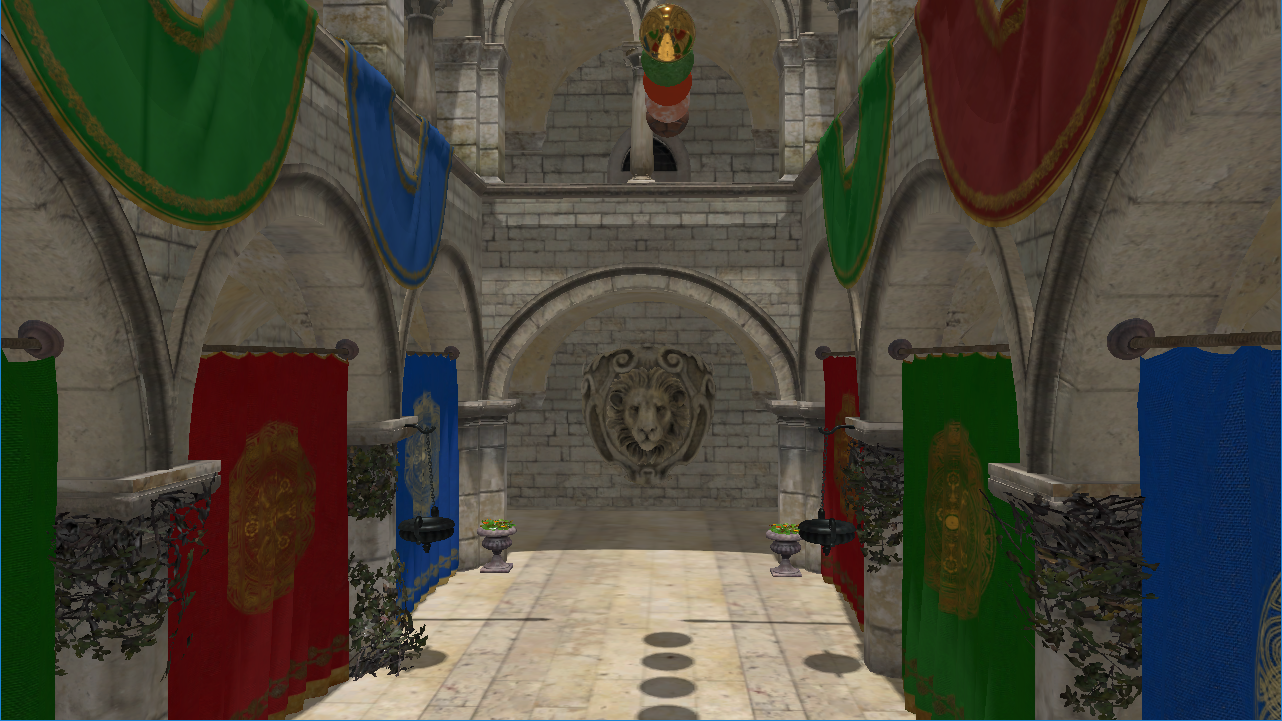
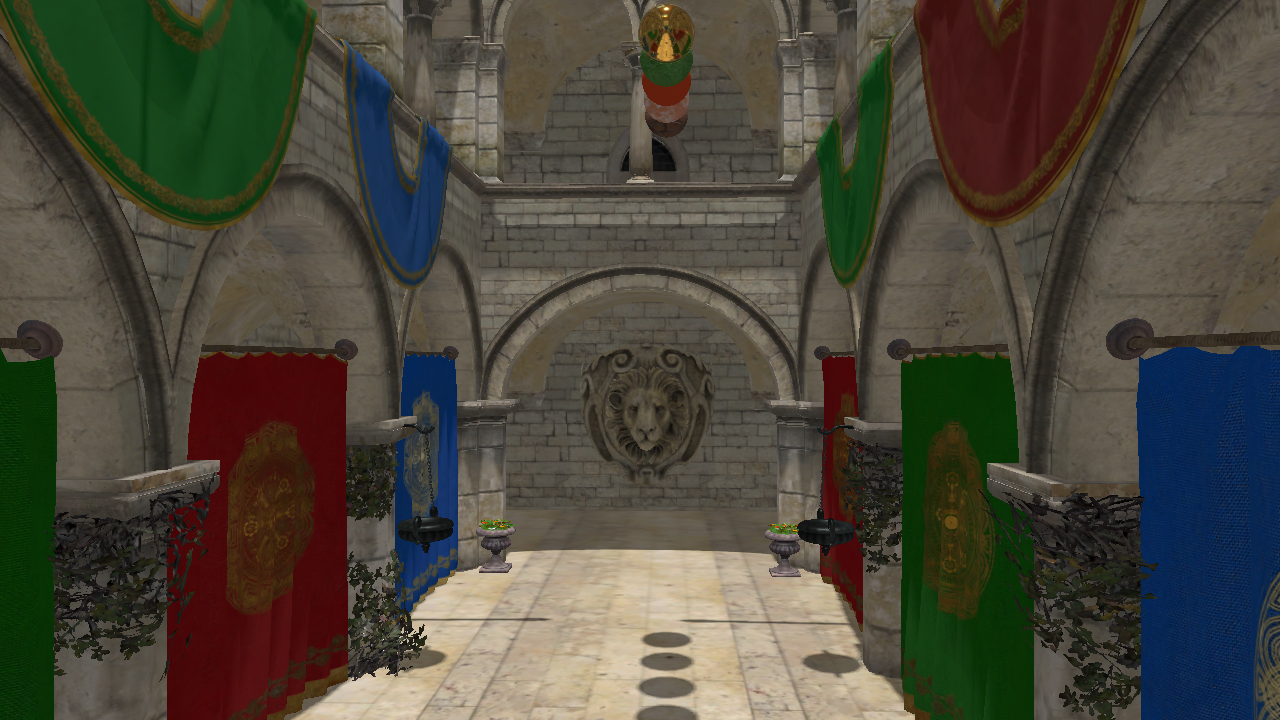
fix screenshot

diff --git a/README.md b/README.md
@@ -1,6 +1,6 @@
 # FlyCube
 
-<img src="./screenshots/sponza.png" width="512px">
+![sponza.png](screenshots/sponza.png)
 
 * Engine
   * Rendering backend
